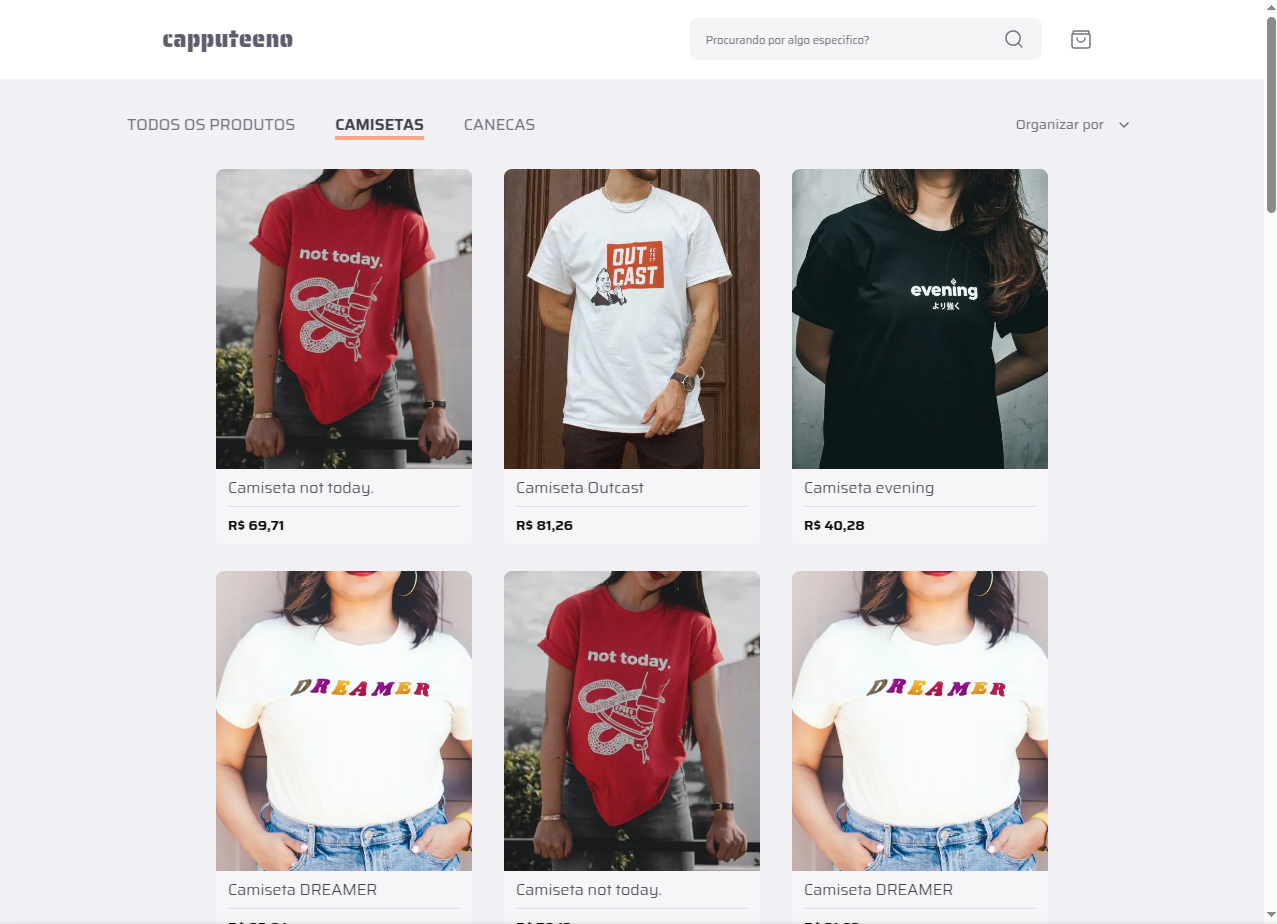
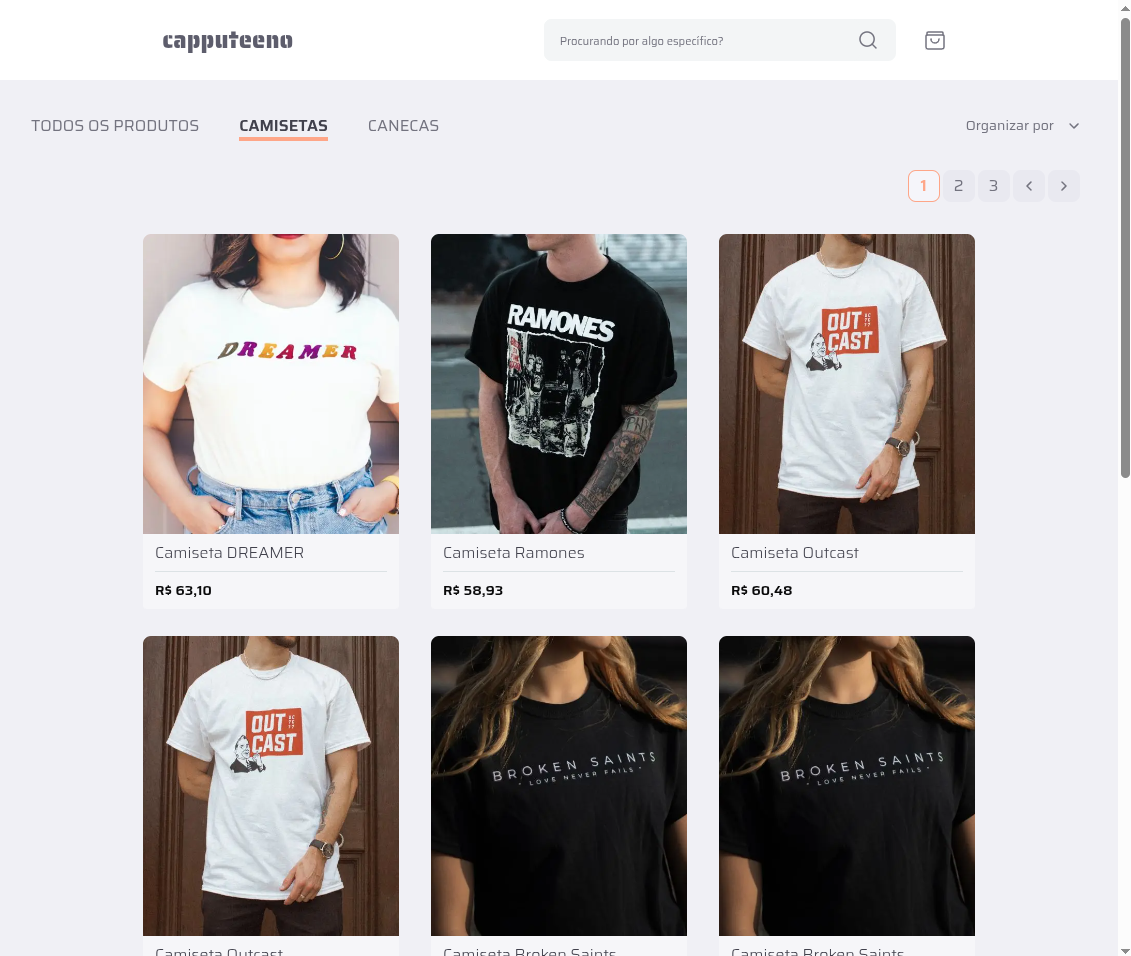
docs: update screenshots and pagination description

diff --git a/README.md b/README.md
@@ -13,7 +13,7 @@
 
 `Capputeeno` é a resolução do desafio [Frontend challenge](https://github.com/Rocketseat/frontend-challenge) da Rockeseat, o qual consiste na implementação de um protótipo de e-commerce para venda de canecas e camisetas que tem as seguintes funcionalidades:
 
-- [ ] Catálogo de produtos com paginação `Pendente`
+- [ ] Catálogo de produtos com paginação
 - [ ] Filtragem produtos por categoria
 - [ ] Busca por nome do produto
 - [ ] Adicionar e remover produtos do carrinho
@@ -106,6 +106,10 @@ Para organizar a listagem pelo nível de prioridade, basta clicar em `Organizar 
 * Mais vendidos
 
 <img src="./public/prioridade_capputeeno.png" /><br>
+
+Os produtos são listados de forma paginada, onde pode-se acessar cada página clicando em um número específico, ou avançando ou retrocedendo páginas nos botões de seta:
+
+<img src="./public/paginacao_capputeeno.gif" /><br>
 
 Também é possível procurar por um produto específico
 digitando o nome na caixa de pesquisa:
